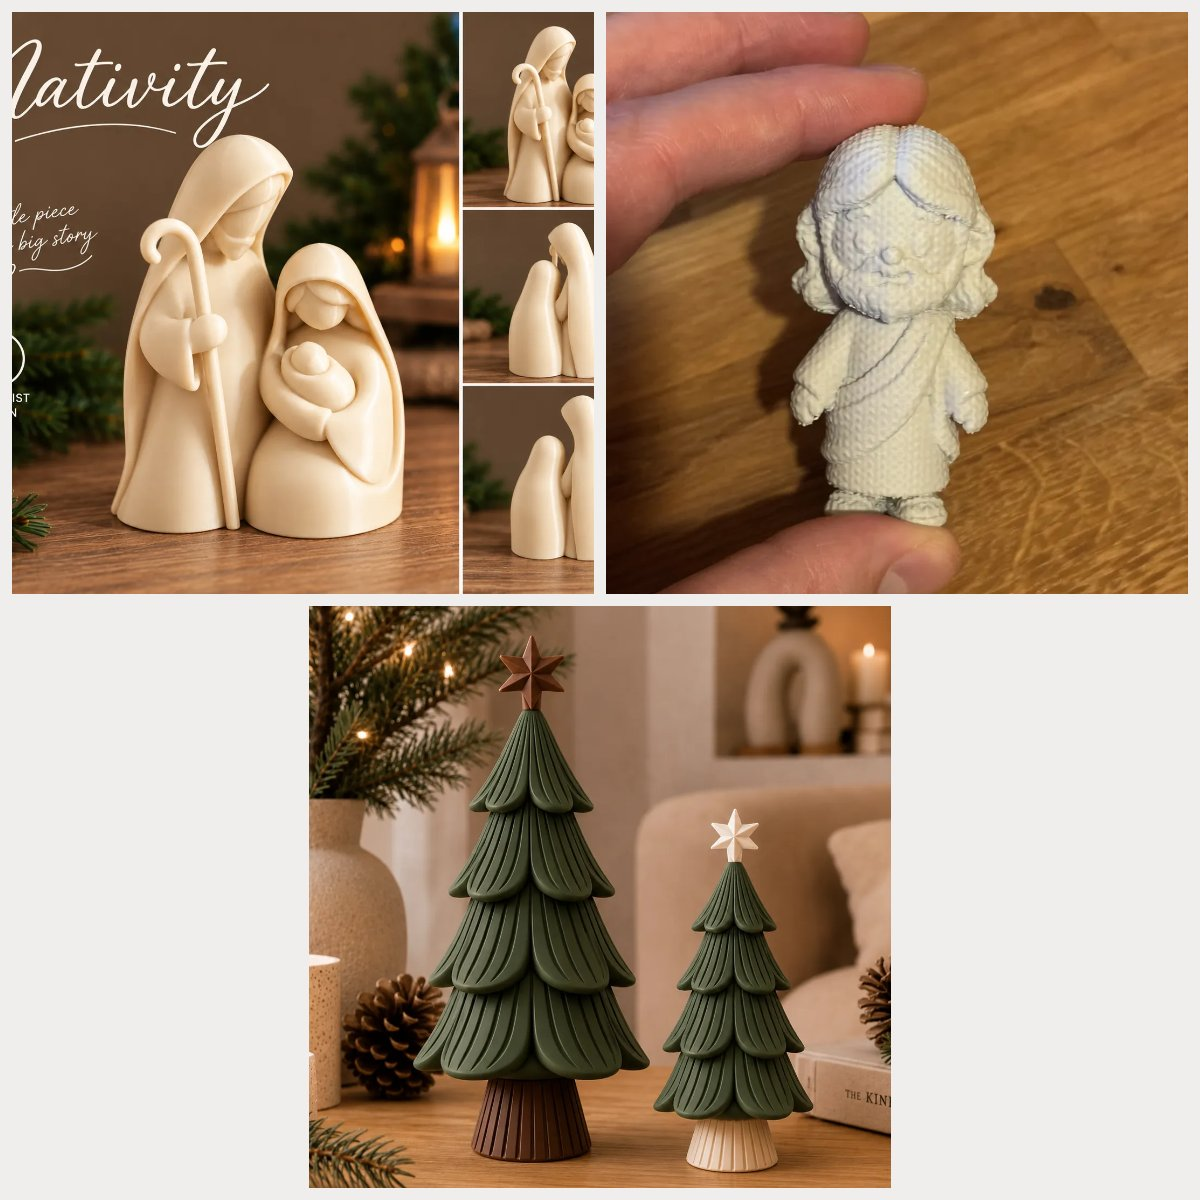
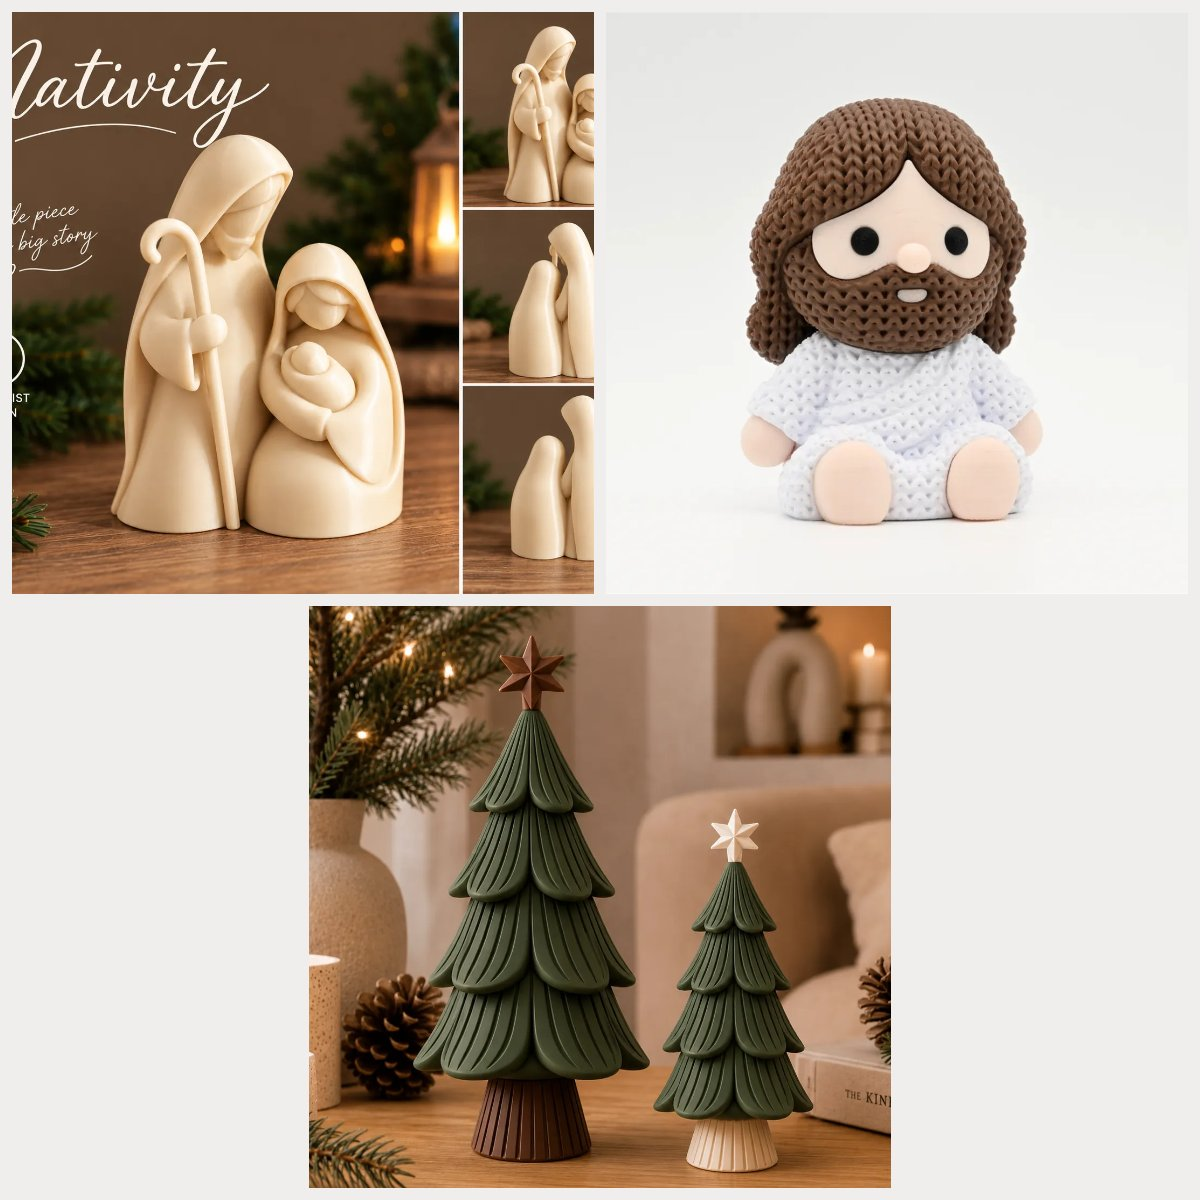
Kit sagrado: foto e descricao com o Jesus novo (sentado)

Changed region(s): [[0.4933, 0.0, 1.0, 0.4933]]

diff --git a/completo.html b/completo.html
@@ -8,7 +8,7 @@
 <link rel="preconnect" href="https://fonts.googleapis.com">
 <link rel="preconnect" href="https://fonts.gstatic.com" crossorigin>
 <link rel="stylesheet" href="https://fonts.googleapis.com/css2?family=Bricolage+Grotesque:opsz,wght@12..96,600;12..96,800&family=Instrument+Sans:wght@400;500;600&family=JetBrains+Mono:wght@400;600&display=swap">
-<script src="data.js?v=35"></script>
+<script src="data.js?v=36"></script>
 <style>
 /* Layout: vitrine de oficina — abas de catálogo no topo, grade de produtos, ficha do produto em painel sobreposto, editor e configurações como painéis */
 :root{

diff --git a/index.html b/index.html
@@ -12,7 +12,7 @@
 <meta property="og:image" content="https://tteuzz.github.io/catalogo-3d/img/natal-kit-completo.jpg">
 <meta property="og:locale" content="pt_BR">
 <meta name="twitter:card" content="summary_large_image">
-<script src="data.js?v=35"></script>
+<script src="data.js?v=36"></script>
 
 <meta name="theme-color" content="#0E6E64">
 <link rel="preconnect" href="https://fonts.googleapis.com">
